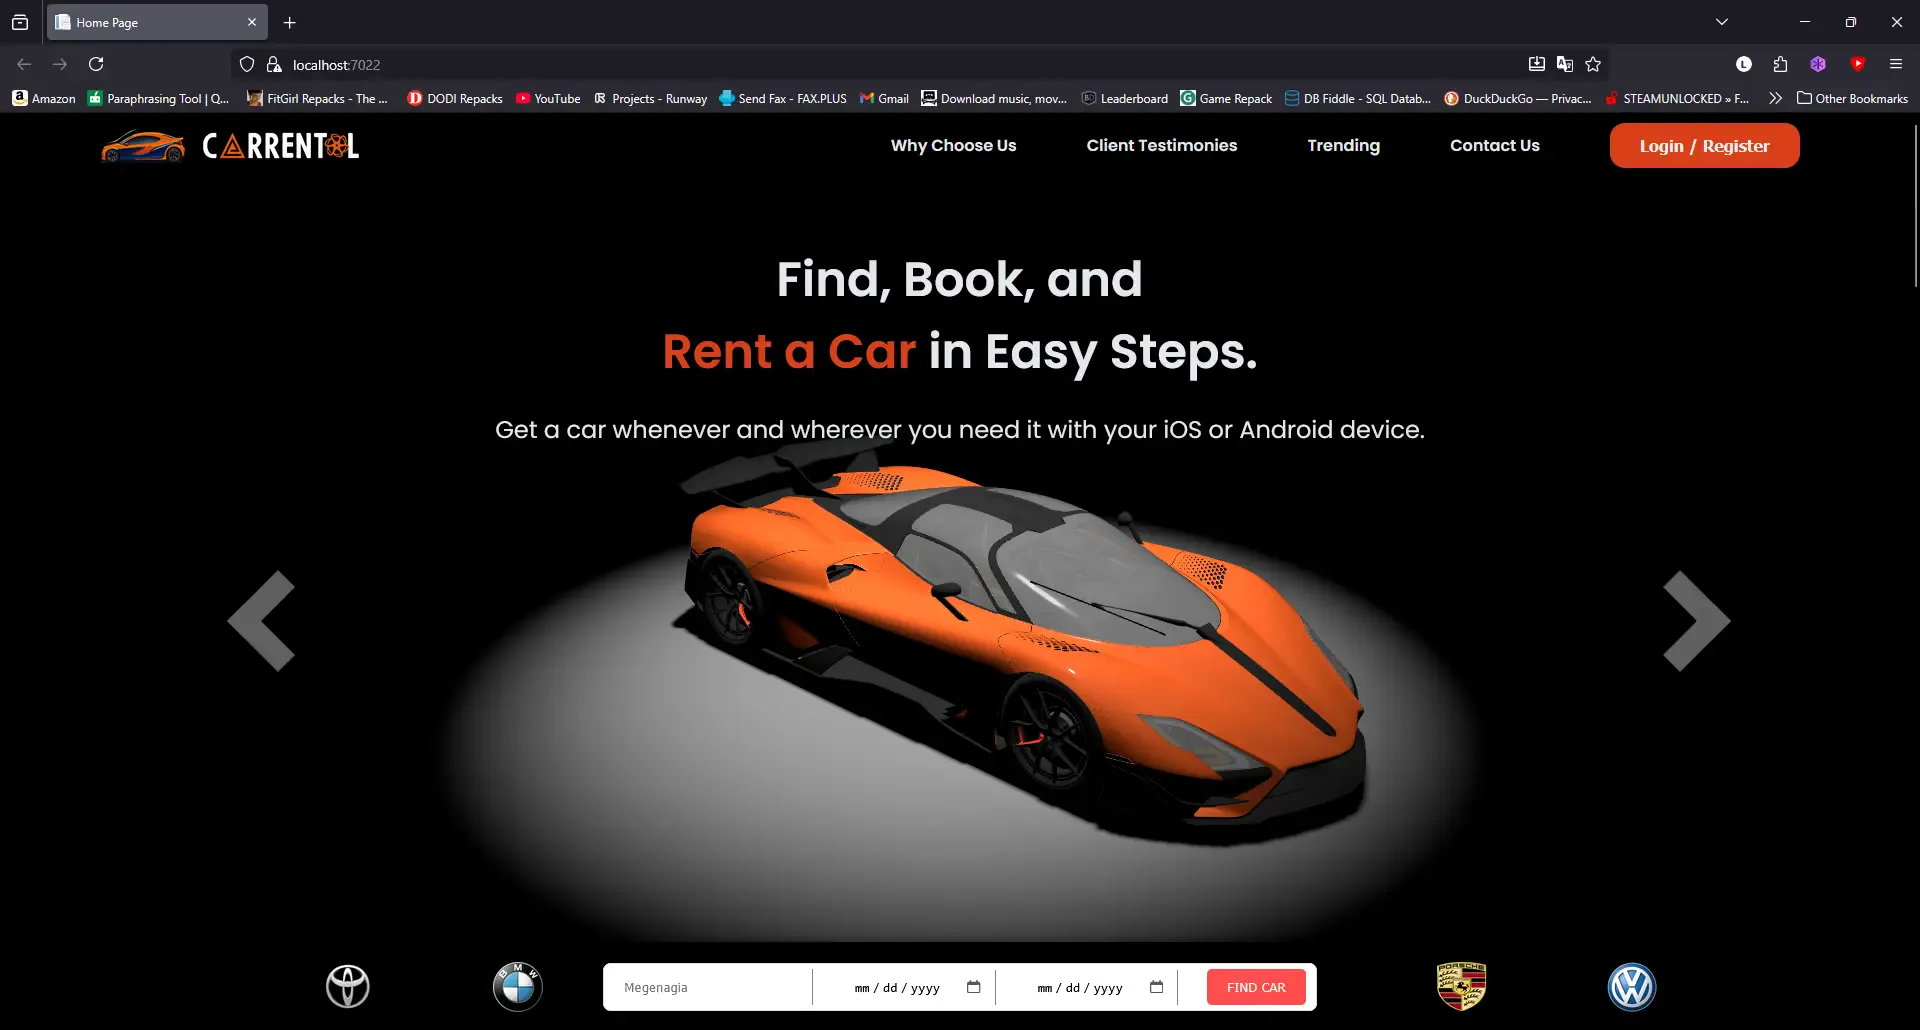
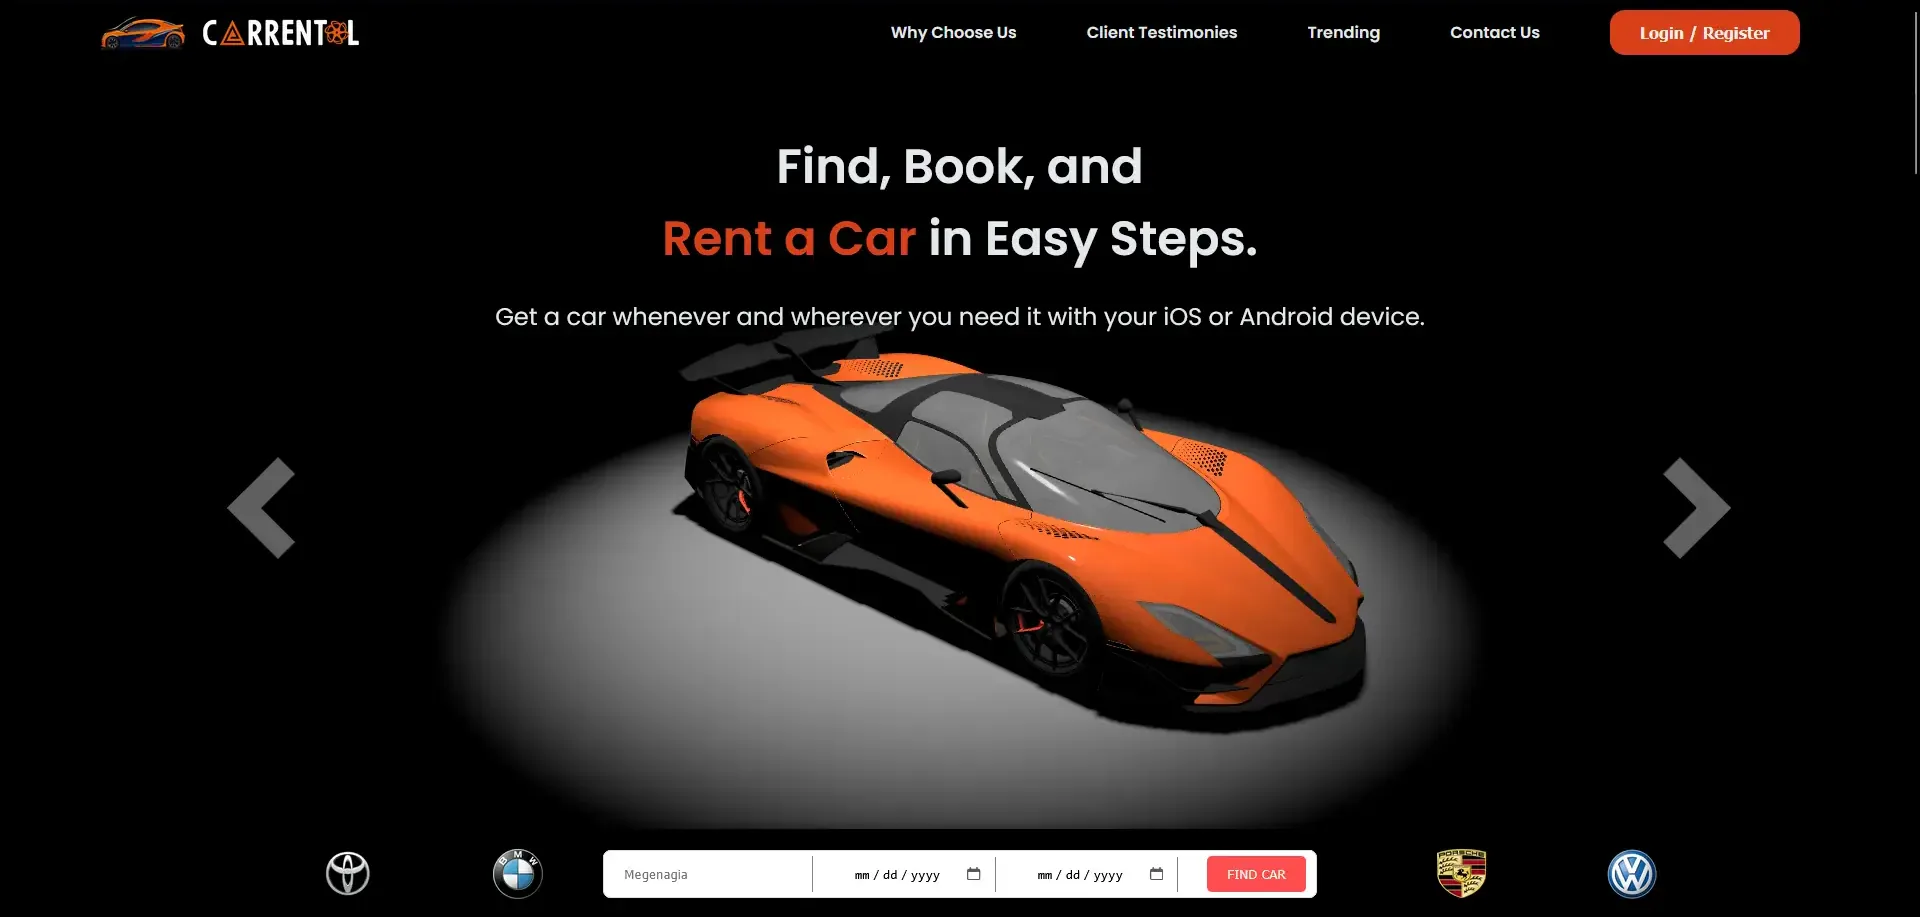
feat(projects): a stronger, source-backed lead set with task captures [skip ci]
Round 11, D-BRAND-002 and D-IMAGE-002:
- Selected work is now Portfolio Leul, Ignition, Car Rental Platform,
  Kitefew, AgendaFlow AI and CS Exit Practice.
- Car Rental replaces ProtoChem. Its source is public, and its evidence is
  pinned to the EF Core context (IdentityDbContext with cars, bookings,
  reviews, payments, favorites and versions). ProtoChem's source is private
  and its image cannot show the gesture interaction.
- Kitefew's evidence is pinned to its MediaPipe configuration: one hand,
  the lite model, 0.6 thresholds. AgendaFlow's evidence says its source is
  private.
- AgendaFlow's image is a genuine generated agenda from its live demo,
  replacing the empty builder.
- Ignition's image is cropped above the public recent-goals feed, and its
  access note now says the demo lists other visitors' goals publicly.
- Car Rental's image no longer includes browser chrome.

diff --git a/src/data/projects.ts b/src/data/projects.ts
@@ -71,7 +71,7 @@ const projectRecords: Project[] = [
     categories: ["AI/DataScience", "Web Development"],
     evidence: {
       inspect: "Enter a goal, inspect the five-step result, then open a step for sub-actions. Switch between English and Amharic.",
-      access: "Plan generation depends on the live AI service.",
+      access: "Plan generation depends on the live AI service. The demo publicly lists other visitors' recent goals.",
       decision: {
         summary: "Model output is not assumed to be valid: the service checks for exactly five non-empty steps and a complexity score from 1 to 10 before accepting a response.",
         sourceLabel: "Response validation source",
@@ -89,7 +89,17 @@ const projectRecords: Project[] = [
     imageKind: "interface",
     githubUrl: "https://github.com/LeulTew/Kitefew",
     demoUrl: "https://kitefew.vercel.app/",
-    categories: ["AI/DataScience", "Desktop & Games", "Web Development"]
+    categories: ["AI/DataScience", "Desktop & Games", "Web Development"],
+    evidence: {
+      inspect: "Open How to Play, then start the camera and move an index finger to slice fruit while avoiding bombs.",
+      access: "The game asks for a player name, and camera play needs camera access.",
+      sourceNote: "MediaPipe provides the hand recognition; this is an integration, not a trained model or measured tracking performance.",
+      decision: {
+        summary: "Tracking is configured for one hand with MediaPipe's lite model, and both detection and tracking confidence thresholds set to 0.6.",
+        sourceLabel: "Hand-tracking configuration",
+        sourceUrl: "https://github.com/LeulTew/Kitefew/blob/ea3c4905625940204e521e8ecc10e6d66308b0fb/webapp/src/logic/MediaPipeService.ts#L32-L37",
+      },
+    }
   },
   {
     id: 28,
@@ -166,7 +176,12 @@ const projectRecords: Project[] = [
     imageKind: "interface",
     githubUrl: "",
     demoUrl: "https://agenda-flow-ai.vercel.app",
-    categories: ["AI/DataScience", "Web Development"]
+    categories: ["AI/DataScience", "Web Development"],
+    evidence: {
+      inspect: "Open Wizard and compare Step-by-Step with Quick Create, then describe a meeting and generate its agenda.",
+      access: "No sign-in is needed to open the builder; generation depends on the live Gemini service.",
+      sourceNote: "The implementation repository is private, so no source is linked; this describes the live demo only.",
+    }
   },
   {
     id: 27,
@@ -213,7 +228,16 @@ const projectRecords: Project[] = [
     image: "/images/projects/car-rental.webp",
     imageKind: "interface",
     githubUrl: "https://github.com/LeulTew/CarRental-ThreeJS-MVC",
-    categories: ["Web Development", "Graphics & Algorithms"]
+    categories: ["Web Development", "Graphics & Algorithms"],
+    evidence: {
+      inspect: "In a local setup, browse cars in the 3D viewer, filter them, book one, and follow the sandbox PayPal checkout.",
+      access: "No live demo is linked; it runs as a local ASP.NET Core app with its SQL Server database.",
+      decision: {
+        summary: "One EF Core context extends ASP.NET Identity's with cars, bookings, reviews, payments, favorites and vehicle versions, so accounts and rentals share one data model.",
+        sourceLabel: "Data model source",
+        sourceUrl: "https://github.com/LeulTew/CarRental-ThreeJS-MVC/blob/d6f8f89911df9ac5341e38b464bfb1c0a8d81c32/Carrental/Carrental/Models/CarContext.cs#L2-L17",
+      },
+    }
   },
   {
     id: 22,
@@ -502,7 +526,7 @@ const projectRecords: Project[] = [
  * source, most with a real task on screen; staged mockups and artwork stay in
  * the archive, labelled.
  */
-export const FEATURED_PROJECT_IDS: readonly number[] = [23, 4, 31, 25, 21, 24];
+export const FEATURED_PROJECT_IDS: readonly number[] = [4, 23, 1, 25, 24, 21];
 
 export function isFeaturedProject(project: Pick<Project, 'id'>): boolean {
   return FEATURED_PROJECT_IDS.includes(project.id);

diff --git a/src/data/projects.test.ts b/src/data/projects.test.ts
@@ -113,7 +113,7 @@ describe("projectsData", () => {
 
   it("adds inspection notes only to the researched projects", () => {
     expect(projectsData.filter(project => project.evidence).map(project => project.title))
-      .toEqual(["Ignition", "Portfolio Leul", "ProtoChem 3D", "Mizan", "Amharic IR Improved"]);
+      .toEqual(["Portfolio Leul", "Ignition", "Car Rental Platform", "Kitefew", "AgendaFlow AI", "Mizan", "ProtoChem 3D", "Amharic IR Improved"]);
     for (const project of projectsData.filter(project => project.evidence)) {
       expect(project.evidence!.inspect.length).toBeGreaterThan(0);
       expect(project.evidence!.access?.length).toBeGreaterThan(0);
@@ -124,7 +124,7 @@ describe("projectsData", () => {
   it("pins each implementation claim to inspectable source, not a moving branch", () => {
     const decisions = projectsData.flatMap(project => project.evidence?.decision
       ? [project.evidence.decision] : []);
-    expect(decisions).toHaveLength(3);
+    expect(decisions).toHaveLength(5);
     for (const decision of decisions) {
       expect(decision.summary).toBeTruthy();
       expect(decision.sourceLabel).toBeTruthy();
